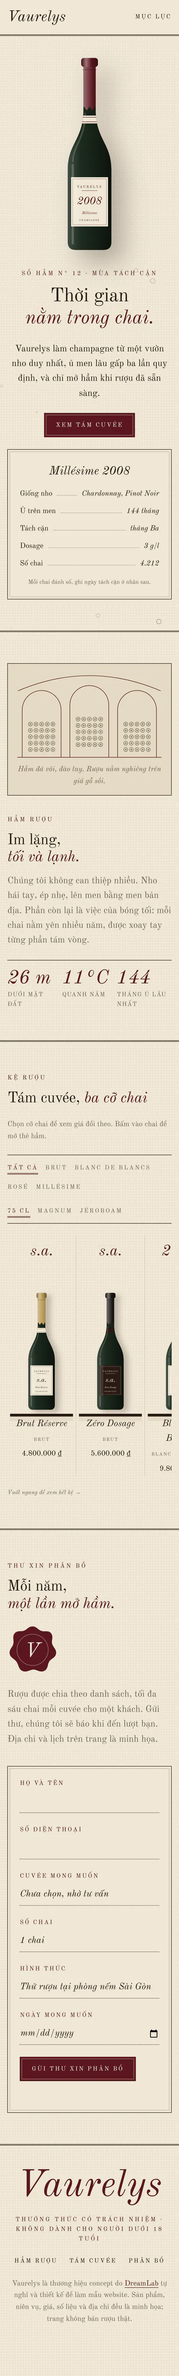
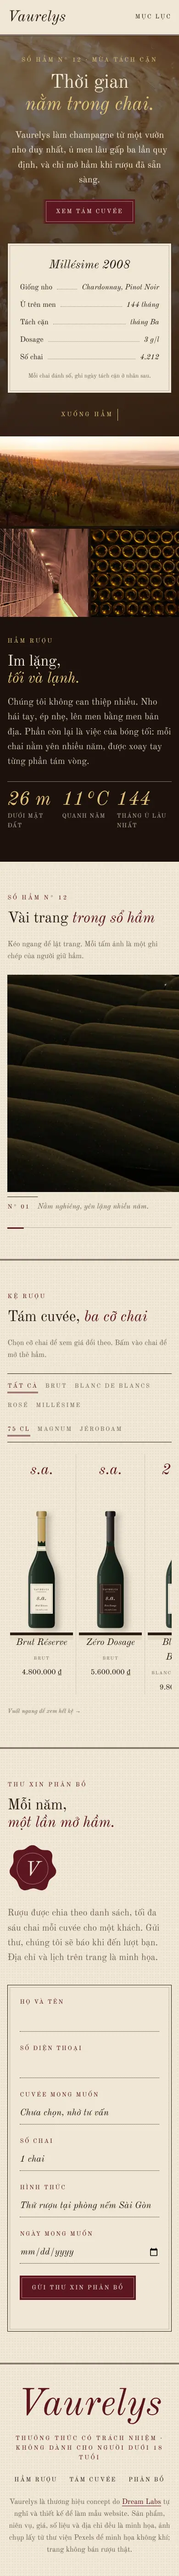
Demo Vaurelys: ảnh thật, hero bọt tăm, cảnh ghim xuống hầm, lookbook sổ hầm
Claude-Session: https://claude.ai/code/session_012QLWn7rvRysGvRwdv6upwG

diff --git a/demos/lux-vaurelys.html b/demos/lux-vaurelys.html
@@ -72,36 +72,80 @@ h1,h2{line-height:1.14;letter-spacing:-.01em}h2{font-size:clamp(33px,5vw,68px)}h
 .mn a{font-style:italic;font-size:42px;min-height:68px;display:flex;align-items:center}
 @media(max-width:900px){.hd .w{grid-template-columns:1fr auto}.hd .sc2{display:none}.hd nav{display:none}.mb{display:inline-flex}}
 /* hero */
-.hero{position:relative;overflow:hidden;padding:42px 0 68px}
+.hero{position:relative;overflow:hidden;background:#1c110c;color:var(--bg);padding:68px 0 26px;display:grid;align-items:end;min-height:calc(100svh - 81px)}
+.hp{position:absolute;inset:-4%;will-change:transform}
+.hp img{width:100%;height:100%;object-fit:cover;object-position:62% 50%;animation:kb 26s var(--ease) both}
+@keyframes kb{from{transform:scale(1.14)}}
+.hv{position:absolute;inset:0;background:linear-gradient(90deg,rgba(24,12,9,.9),rgba(34,15,12,.62) 46%,rgba(91,22,32,.2)),linear-gradient(0deg,rgba(24,12,9,.7),transparent 46%)}
 .hero canvas{position:absolute;inset:0;width:100%;height:100%;pointer-events:none}
-.hg{position:relative;display:grid;gap:26px;align-items:center}
-@media(min-width:900px){.hero{min-height:calc(100svh - 81px);display:grid;align-items:center}.hg{grid-template-columns:1fr auto 1fr;gap:42px}}
-.hero h1{font-size:clamp(42px,6.2vw,96px);margin:16px 0 26px;animation:up 1.6s .1s var(--ease) both}
-.hero .t{max-width:22em;margin-bottom:26px;animation:up 1.6s .3s var(--ease) both}
-.hero .bt{animation:up 1.6s .5s var(--ease) both}
-@keyframes up{from{opacity:0;transform:translateY(26px)}to{opacity:1;transform:none}}
-.hbt{height:min(74vh,640px);justify-self:center;animation:bi 2.2s var(--ease) both;filter:drop-shadow(26px 26px 26px rgba(42,26,20,.3))}
-@keyframes bi{from{opacity:0;transform:translateY(42px)}to{opacity:1;transform:none}}
-.hbt>div,.hbt svg{height:100%;width:auto}
-.card{border:1px solid var(--ink);padding:26px;max-width:380px;width:100%;justify-self:end;background:var(--bg);position:relative;animation:up 1.6s .7s var(--ease) both}
+.hg{position:relative;display:grid;gap:42px;align-items:end}
+@media(min-width:900px){.hg{grid-template-columns:1fr auto;gap:68px}}
+.hero .sc2{color:#e2c27a}.hero h1 em{color:#e2c27a}
+.hero h1{font-size:clamp(42px,7vw,110px);margin:16px 0 26px}
+.hero .t{max-width:22em;margin-bottom:26px;animation:up 1.6s .5s var(--ease) both}
+.hero .bt{animation:up 1.6s .7s var(--ease) both}
+@keyframes up{from{opacity:0;transform:translateY(26px)}}
+.card{border:1px solid var(--ink);color:var(--ink);padding:26px;max-width:380px;width:100%;background:var(--bg);position:relative;animation:up 1.6s .9s var(--ease) both}
 .card::before{content:"";position:absolute;inset:4px;border:1px solid var(--line);pointer-events:none}
 .card h3{font-style:italic;font-size:26px;margin-bottom:10px}.card .ld{font-size:16px}
 .card p{font-size:13px;color:var(--mut);margin-top:10px}
-@media(max-width:899px){.hbt{height:52vh;min-height:340px;order:-1}.card{justify-self:center}.hero{text-align:center}.hero .t{margin-inline:auto}}
-/* hầm */
-.cl{display:grid;gap:42px;align-items:center}
-@media(min-width:900px){.cl{grid-template-columns:61.8fr 38.2fr;gap:68px}}
-.arc{border:1px solid var(--ink);padding:16px;background:var(--bg2)}
+.cue{position:relative;justify-self:center;margin-top:26px;min-height:42px;display:inline-flex;align-items:center;gap:10px;font-size:13px;letter-spacing:.26em;text-transform:uppercase;color:#e2c27a}
+.cue::after{content:"";width:1px;height:26px;background:currentColor;transform-origin:50% 0;animation:cu 2.6s var(--ease) infinite}
+@keyframes cu{0%{transform:scaleY(0)}60%{transform:scaleY(1)}100%{transform:scaleY(1);opacity:0}}
+@media(max-width:899px){.hv{background:linear-gradient(0deg,rgba(24,12,9,.84),rgba(34,15,12,.58))}.card{justify-self:center}.hero{text-align:center;padding-top:42px}.hero .t{margin-inline:auto}}
+/* xuống hầm */
+.dn{background:#1c110c;color:var(--bg)}
+.dn-s{position:relative;padding:0 0 68px}
+.dn-i{display:grid;grid-template-columns:1fr 1fr;gap:6px}
+.dl{position:relative;overflow:hidden;aspect-ratio:1}.dl:first-child{grid-column:1/-1;aspect-ratio:2}
+.dl img{width:100%;height:100%;object-fit:cover}
+@media(min-width:900px){.dn-i{grid-template-columns:2fr 1fr 1fr}.dl,.dl:first-child{grid-column:auto;aspect-ratio:auto;height:60vh}}
+.dn-v,.dn-g{display:none}
+.dn-t{position:relative;padding-top:42px}
+.dn .sc2,.dn h2 em{color:#e2c27a}
+.dn p.t{color:rgba(239,231,214,.82);margin:16px 0 26px;max-width:30em}
+.fg3{display:grid;grid-template-columns:repeat(3,1fr);border-top:1px solid rgba(239,231,214,.5);max-width:640px}
+.fg3 div{padding:16px 10px 0 0;font-size:13px;letter-spacing:.1em;text-transform:uppercase;color:rgba(239,231,214,.7)}
+.fg3 b{display:block;font:italic 400 42px/1.14 var(--fd);color:#e2c27a;letter-spacing:0;text-transform:none;font-variant-numeric:tabular-nums}
+.mo .dn{height:300svh}
+.mo .dn-s{position:sticky;top:0;height:100svh;overflow:hidden;padding:0;display:grid;align-items:end}
+.mo .dn-i{position:absolute;inset:0;display:block}
+.mo .dl,.mo .dl:first-child{position:absolute;inset:0;aspect-ratio:auto;height:auto;will-change:clip-path}
+.mo .dl+.dl{clip-path:inset(100% 0 0 0)}
+.mo .dl img{position:absolute;left:0;top:-7%;height:114%;will-change:transform}
+.mo .dn-v{display:block;position:absolute;inset:0;background:#140b08;opacity:.2}
+.mo .dn-s::after{content:"";position:absolute;inset:0;background:linear-gradient(0deg,rgba(20,11,8,.92),rgba(20,11,8,.5) 42%,transparent 70%);pointer-events:none}
+.mo .dn-t{z-index:2;padding:0 max(16px,4.2vw) 84px}@media(max-width:700px){.mo .dn-t{padding-bottom:118px}}
+@media(min-width:900px){.mo .dn-g{display:block;position:absolute;z-index:2;right:max(26px,5vw);top:24%;height:52%;width:1px;background:rgba(239,231,214,.3)}
+.dn-g b{position:absolute;inset:0;background:#e2c27a;transform-origin:50% 0;transform:scaleY(0)}
+.dn-g i{position:absolute;right:-4px;top:-4px;width:9px;height:9px;border-radius:50%;background:#e2c27a;font:italic 20px/1 var(--fd);color:var(--bg)}
+.dn-g span{position:absolute;right:26px;top:-6px;white-space:nowrap}
+.dn-g::before,.dn-g::after{content:"Mặt đất";position:absolute;right:-4px;bottom:100%;margin-bottom:16px;font-size:10px;letter-spacing:.2em;text-transform:uppercase;white-space:nowrap;color:rgba(239,231,214,.7)}
+.dn-g::after{content:"Đáy hầm";bottom:auto;top:100%;margin:16px 0 0}}
+/* sổ hầm */
+.lk{display:flex;gap:26px;align-items:flex-start;overflow-x:auto;padding:0 max(16px,4.2vw) 6px;scrollbar-width:none;--h:min(56vh,520px)}
+.lk::-webkit-scrollbar{display:none}
+.lk.dg{cursor:grabbing;user-select:none}
+.lc{flex:none}
+.lw{position:relative;overflow:hidden;height:var(--h);aspect-ratio:3/2;background:var(--bg2)}
+.lc.p .lw{aspect-ratio:4/5}
+.lw img{width:114%;max-width:none;margin-left:-7%;height:100%;object-fit:cover;pointer-events:none;will-change:transform}
+.lw::after{content:"";position:absolute;inset:0;background:rgba(91,22,32,.3);mix-blend-mode:multiply;transition:opacity 1.1s var(--ease)}
+.lc:hover .lw::after{opacity:0}
+.lc figcaption{display:flex;gap:16px;align-items:baseline;font-style:italic;font-size:16px;color:var(--mut);padding-top:10px;margin-top:10px;position:relative;max-width:26em}
+.lc figcaption::before{content:"";position:absolute;left:0;right:0;top:0;border-top:1px solid var(--ink);transform:scaleX(.16);transform-origin:0 50%;transition:transform 1.1s var(--ease)}
+.lc:hover figcaption::before{transform:none}
+.lc figcaption b{font:400 13px var(--fb);letter-spacing:.2em;color:var(--acc);white-space:nowrap}
+.lp{height:1px;background:var(--line);margin:26px max(16px,4.2vw) 0}.lp i{display:block;height:3px;margin-top:-1px;background:var(--acc);transform-origin:0 50%;transform:scaleX(.1)}
+.arc{border:1px solid var(--ink);padding:16px;background:var(--bg2);width:min(78vw,calc(var(--h)*1.3));align-self:center}
 .arc svg{width:100%;height:auto}
 .arc path{fill:none;stroke:var(--acc);stroke-width:1.4}.arc circle{fill:none;stroke:var(--ink);stroke-width:.8}
 .js .arc path{stroke-dasharray:1;stroke-dashoffset:1;transition:stroke-dashoffset 2.6s var(--ease);transition-delay:calc(var(--i,0)*262ms)}
 .js .arc g{opacity:0;transition:opacity 1.6s var(--ease) 1s}
 .js .arc.in path{stroke-dashoffset:0}.js .arc.in g{opacity:1}
 .arc figcaption{font-style:italic;font-size:16px;text-align:center;margin-top:10px;color:var(--mut)}
-.cl p.t{color:var(--mut);margin:16px 0 26px}
-.fg3{display:grid;grid-template-columns:repeat(3,1fr);border-top:1px solid var(--ink)}
-.fg3 div{padding:16px 10px 0 0;font-size:13px;letter-spacing:.1em;text-transform:uppercase;color:var(--mut)}
-.fg3 b{display:block;font:italic 400 42px/1.14 var(--fd);color:var(--acc);letter-spacing:0;text-transform:none}
+@media (hover:none),(pointer:coarse){.lk{scroll-snap-type:x mandatory;--h:auto}.lc{scroll-snap-align:center;width:78vw}.lw,.lc.p .lw{width:100%;height:auto;aspect-ratio:4/5}.lw::after{opacity:.5}}
+.js [data-r=rule]{opacity:1;transform:scaleX(0);transform-origin:0 50%}
 /* kệ */
 .kh{display:flex;justify-content:space-between;align-items:end;gap:26px;flex-wrap:wrap;margin-bottom:26px}
 .tb{display:flex;justify-content:space-between;gap:10px 26px;flex-wrap:wrap;border-block:1px solid var(--ink);padding:6px 0}
@@ -164,47 +208,65 @@ footer{padding:42px 0 110px;text-align:center;overflow:hidden}
 <header class="hd"><div class="w">
  <p class="sc2">Champagne · Nhà độc lập</p>
  <a class="lg" href="#top" aria-label="Vaurelys — về đầu trang">Vaurelys</a>
- <nav aria-label="Chính"><a href="#ham">Hầm rượu</a><a href="#ke">Tám cuvée</a><a href="#phan-bo">Phân bổ</a></nav>
+ <nav aria-label="Chính"><a href="#ham">Hầm rượu</a><a href="#so">Sổ hầm</a><a href="#ke">Tám cuvée</a><a href="#phan-bo">Phân bổ</a></nav>
  <button class="mb" data-nav aria-expanded="false" aria-controls="mn">Mục lục</button>
 </div></header>
-<div class="mn" id="mn"><a href="#ham">Hầm rượu</a><a href="#ke">Tám cuvée</a><a href="#phan-bo">Xin phân bổ</a></div>
+<div class="mn" id="mn"><a href="#ham">Hầm rượu</a><a href="#so">Sổ hầm</a><a href="#ke">Tám cuvée</a><a href="#phan-bo">Xin phân bổ</a></div>
 
 <main>
 <section class="hero" id="top">
+ <div class="hp"><img src="../img/photo/champagne-38962881.webp" width="2000" height="1860" alt="Cận cảnh ly champagne vàng óng, bọt tăm li ti bám thành ly" fetchpriority="high" decoding="async"></div>
+ <div class="hv"></div>
  <canvas id="bub" aria-hidden="true"></canvas>
  <div class="w hg">
   <div><p class="sc2">Sổ hầm N° 12 · Mùa tách cặn</p>
-   <h1>Thời gian<br><em>nằm trong chai.</em></h1>
+   <h1 data-r="lines"><span class="ln"><span>Thời gian</span></span><span class="ln" style="--j:2"><span><em>nằm trong chai.</em></span></span></h1>
    <p class="t">Vaurelys làm champagne từ một vườn nho duy nhất, ủ men lâu gấp ba lần quy định, và chỉ mở hầm khi rượu đã sẵn sàng.</p>
    <a class="bt" href="#ke">Xem tám cuvée</a></div>
-  <div class="hbt"><div id="hbt" data-px=".04"></div></div>
   <div class="card"><h3>Millésime 2008</h3>
-   <dl class="ld"><div><dt>Giống nho</dt><dd>Chardonnay, Pinot Noir</dd></div><div><dt>Ủ trên men</dt><dd>144 tháng</dd></div><div><dt>Tách cặn</dt><dd>tháng Ba</dd></div><div><dt>Dosage</dt><dd>3 g/l</dd></div><div><dt>Số chai</dt><dd>4.212</dd></div></dl>
+   <dl class="ld"><div><dt>Giống nho</dt><dd>Chardonnay, Pinot Noir</dd></div><div><dt>Ủ trên men</dt><dd><span data-ct="144">144</span> tháng</dd></div><div><dt>Tách cặn</dt><dd>tháng Ba</dd></div><div><dt>Dosage</dt><dd>3 g/l</dd></div><div><dt>Số chai</dt><dd data-ct="4212">4.212</dd></div></dl>
    <p>Mỗi chai đánh số, ghi ngày tách cặn ở nhãn sau.</p></div>
  </div>
+ <a class="cue" href="#ham">Xuống hầm</a>
 </section>
-<hr class="rl">
 
-<section class="sec" id="ham"><div class="w cl">
- <figure class="arc" data-r="fade">
-  <svg viewBox="0 0 420 250" role="img" aria-label="Hình khắc ba vòm hầm rượu đá vôi">
-   <path pathLength="1" d="M6 244H414"/><path pathLength="1" d="M20 244V110a55 55 0 0 1 110 0v134" style="--i:1"/><path pathLength="1" d="M155 244V96a55 55 0 0 1 110 0v148" style="--i:2"/><path pathLength="1" d="M290 244V110a55 55 0 0 1 110 0v134" style="--i:3"/>
-   <path pathLength="1" d="M8 56Q210-30 412 56" style="--i:4"/>
-   <g id="rk"></g>
-  </svg><figcaption>Hầm đá vôi, đào tay. Rượu nằm nghiêng trên giá gỗ sồi.</figcaption>
- </figure>
- <div><p class="sc2" data-r>Hầm rượu</p><h2 data-r style="margin-top:16px">Im lặng,<br><em>tối và lạnh.</em></h2>
+<section class="dn" id="ham"><div class="dn-s">
+ <div class="dn-i">
+  <div class="dl"><img src="../img/photo/champagne-18248851.webp" width="1800" height="877" alt="Vườn nho trên sườn đồi trong nắng sớm màu mật" loading="lazy" decoding="async"></div>
+  <div class="dl"><img src="../img/photo/champagne-34643419.webp" width="1600" height="1532" alt="Đường hầm rượu dài, vòm đá, lồng chai xếp kín một bên vách" loading="lazy" decoding="async"></div>
+  <div class="dl"><img src="../img/photo/champagne-35740712.webp" width="1600" height="960" alt="Đáy chai champagne xếp thành hàng, ánh hổ phách trong bóng tối" loading="lazy" decoding="async"></div>
+ </div>
+ <div class="dn-v"></div>
+ <div class="dn-g" aria-hidden="true"><b></b><i><span>0 m</span></i></div>
+ <div class="w dn-t"><p class="sc2" data-r>Hầm rượu</p><h2 data-r style="margin-top:16px">Im lặng,<br><em>tối và lạnh.</em></h2>
   <p class="t" data-r>Chúng tôi không can thiệp nhiều. Nho hái tay, ép nhẹ, lên men bằng men bản địa. Phần còn lại là việc của bóng tối: mỗi chai nằm yên nhiều năm, được xoay tay từng phần tám vòng.</p>
-  <div class="fg3" data-r><div><b>26 m</b>dưới mặt đất</div><div><b>11°C</b>quanh năm</div><div><b>144</b>tháng ủ lâu nhất</div></div></div>
+  <div class="fg3" data-r><div><b><span id="dm">26</span> m</b>dưới mặt đất</div><div><b>11°C</b>quanh năm</div><div><b id="dt">144</b>tháng ủ lâu nhất</div></div></div>
 </div></section>
-<hr class="rl">
+
+<section class="sec" id="so"><div class="w kh"><div><p class="sc2" data-r>Sổ hầm N° 12</p><h2 data-r style="margin-top:16px">Vài trang <em>trong sổ hầm</em></h2></div><p data-r style="max-width:22em;font-size:16px;color:var(--mut)">Kéo ngang để lật trang. Mỗi tấm ảnh là một ghi chép của người giữ hầm.</p></div>
+ <div class="lk" id="lk" tabindex="0" data-c="Kéo" aria-label="Sổ hầm bằng ảnh, kéo ngang để xem">
+  <figure class="lc" data-r><div class="lw"><img src="../img/photo/champagne-5651790.webp" width="1300" height="867" alt="Những chai rượu nằm nghiêng xếp lớp trong hầm tối" loading="lazy" decoding="async"></div><figcaption><b>N° 01</b>Nằm nghiêng, yên lặng nhiều năm.</figcaption></figure>
+  <figure class="lc p" data-r style="--i:1"><div class="lw"><img src="../img/photo/champagne-14420961.webp" width="780" height="951" alt="Rượu sủi tăm rót từ cổ chai bọc giấy bạc vào ly trên nền tối" loading="lazy" decoding="async"></div><figcaption><b>N° 02</b>Rót ở 9–11°C, bọt mịn.</figcaption></figure>
+  <figure class="lc" data-r style="--i:2"><div class="lw"><img src="../img/photo/champagne-5272994.webp" width="1300" height="867" alt="Chai rượu cũ phủ bụi chúc cổ trên giá gỗ sát vách đá vôi" loading="lazy" decoding="async"></div><figcaption><b>N° 03</b>Ngăn riêng của những niên vụ cũ.</figcaption></figure>
+  <figure class="lc p" data-r><div class="lw"><img src="../img/photo/champagne-15007573.webp" width="780" height="1014" alt="Ly champagne đầy trước những đốm đèn vàng nhòe" loading="lazy" decoding="async"></div><figcaption><b>N° 04</b>Chai để mở mỗi khi có khách.</figcaption></figure>
+  <figure class="lc arc" data-r="fade">
+   <svg viewBox="0 0 420 250" role="img" aria-label="Hình khắc ba vòm hầm rượu đá vôi">
+    <path pathLength="1" d="M6 244H414"/><path pathLength="1" d="M20 244V110a55 55 0 0 1 110 0v134" style="--i:1"/><path pathLength="1" d="M155 244V96a55 55 0 0 1 110 0v148" style="--i:2"/><path pathLength="1" d="M290 244V110a55 55 0 0 1 110 0v134" style="--i:3"/>
+    <path pathLength="1" d="M8 56Q210-30 412 56" style="--i:4"/>
+    <g id="rk"></g>
+   </svg><figcaption>Hầm đá vôi, đào tay. Rượu nằm nghiêng trên giá gỗ sồi.</figcaption>
+  </figure>
+ </div>
+ <div class="lp" aria-hidden="true"><i></i></div>
+</section>
+<hr class="rl" data-r="rule">
 
 <section class="sec" id="ke"><div class="w">
  <div class="kh"><div><p class="sc2" data-r>Kệ rượu</p><h2 data-r style="margin-top:16px">Tám cuvée, <em>ba cỡ chai</em></h2></div><p data-r style="max-width:22em;font-size:16px;color:var(--mut)">Chọn cỡ chai để xem giá đổi theo. Bấm vào chai để mở thẻ hầm.</p></div>
  <div class="tb" data-r><div class="fl" id="fl" role="group" aria-label="Lọc theo dòng rượu"></div><div class="fo" id="fo" role="group" aria-label="Cỡ chai"></div></div>
  <div class="shf"><div class="gr" id="gr" data-vt tabindex="0" aria-label="Kệ tám cuvée, vuốt ngang để xem"></div><p class="hint">Vuốt ngang để xem hết kệ →</p></div>
 </div></section>
-<hr class="rl">
+<hr class="rl" data-r="rule">
 
 <section class="sec" id="phan-bo"><div class="w bk">
  <div><p class="sc2" data-r>Thư xin phân bổ</p><h2 data-r style="margin-top:16px">Mỗi năm,<br><em>một lần mở hầm.</em></h2>
@@ -221,13 +283,13 @@ footer{padding:42px 0 110px;text-align:center;overflow:hidden}
  </form>
 </div></section>
 </main>
-<hr class="rl">
+<hr class="rl" data-r="rule">
 
 <footer><div class="w">
  <div class="fw" aria-hidden="true" data-r>Vaurelys</div>
  <p class="sc2">Thưởng thức có trách nhiệm · Không dành cho người dưới 18 tuổi</p>
  <nav class="fn" aria-label="Chân trang"><a href="#ham">Hầm rượu</a><a href="#ke">Tám cuvée</a><a href="#phan-bo">Phân bổ</a></nav>
- <p class="fc">Vaurelys là thương hiệu concept do <a href="../index.html" target="_top">Dream Labs</a> tự nghĩ và thiết kế để làm mẫu website. Sản phẩm, niên vụ, giá, số liệu và địa chỉ đều là minh họa; trang không bán rượu thật.</p>
+ <p class="fc">Vaurelys là thương hiệu concept do <a href="../index.html" target="_top">Dream Labs</a> tự nghĩ và thiết kế để làm mẫu website. Sản phẩm, niên vụ, giá, số liệu và địa chỉ đều là minh họa, ảnh chụp lấy từ thư viện Pexels để minh họa không khí; trang không bán rượu thật.</p>
 </div></footer>
 
 <div class="qv" id="qv" aria-hidden="true"><div class="qv-bg" data-x></div><div class="qv-p" role="dialog" aria-modal="true" aria-label="Thẻ hầm của cuvée"><button class="qv-x" data-x aria-label="Đóng">×</button><div id="qvc"></div></div></div>
@@ -253,9 +315,6 @@ D.addEventListener('click',e=>{const a=e.target.closest('a[href^="#"]');if(!a)re
 /* đầu trang + menu điện thoại */
 const onS=()=>{H.classList.toggle('sc',scrollY>42)};addEventListener('scroll',onS,{passive:true});onS();
 $$('[data-nav]').forEach(b=>b.addEventListener('click',()=>{const o=H.classList.toggle('no');b.setAttribute('aria-expanded',o)}));
-/* parallax nhẹ */
-const PX=$$('[data-px]');
-if(PX.length&&!RM){let tk=0;const up=()=>{tk=0;const vh=innerHeight;PX.forEach(el=>{const r=el.parentElement.getBoundingClientRect();if(r.bottom<-200||r.top>vh+200)return;el.style.transform='translate3d(0,'+((r.top+r.height/2-vh/2)*-(+el.dataset.px)).toFixed(1)+'px,0)'})};addEventListener('scroll',()=>{tk||(tk=requestAnimationFrame(up))},{passive:true});up()}
 /* con trỏ */
 const cur=$('.cur');
 if(cur&&FINE){let x=-99,y=-99,cx=x,cy=y,on=0;const lab=$('.cur i');
@@ -294,13 +353,42 @@ const btl=c=>{const u='c'+(uid++),g=GL[c.g],f=FO[c.f],gp='M49 12H71V98C71 150 99
  <g font-family="Old Standard TT,serif" text-anchor="middle" fill="${c.l[1]}"><text x="60" y="237" font-size="6" letter-spacing="1.6">VAURELYS</text><path d="M46 242h28" stroke="${c.l[1]}" stroke-width=".5"/><text x="60" y="266" font-size="${c.y.length>4?16:19}" font-style="italic">${c.y}</text><text x="60" y="284" font-size="${c.n.length>13?5.6:6.6}" font-style="italic">${c.n}</text><text x="60" y="296" font-size="4.2" letter-spacing="1">CHAMPAGNE</text></g>
  <rect x="27" y="218" width="12" height="88" fill="#fff" opacity=".12"/></svg>`};
 const pr=(c,k)=>c.p?vnd(Math.round(c.p*FM[k][1]/1e5)*1e5):vnd(0);
-/* hero */
-$('#hbt').innerHTML=btl(C[6]);
-const cv=$('#bub'),hero=$('.hero');let cx,bs=[],run=0,hw,hh;
-const fit=()=>{const d=Math.min(devicePixelRatio||1,1.5);hw=hero.clientWidth;hh=hero.clientHeight;cv.width=hw*d;cv.height=hh*d;cx=cv.getContext('2d');cx.setTransform(d,0,0,d,0,0);bs=Array.from({length:Math.round(hw/30)},(_,i)=>({x:Math.random()*hw,y:Math.random()*hh,r:1.5+Math.random()*5,v:.2+Math.random()*.5,p:Math.random()*6.28}))};
-const draw=t=>{cx.clearRect(0,0,hw,hh);cx.lineWidth=1;bs.forEach(b=>{if(run){b.y-=b.v;if(b.y<-10){b.y=hh+10;b.x=Math.random()*hw}}const x=b.x+Math.sin(t*.001+b.p)*6;cx.globalAlpha=.16+.3*(b.y/hh);cx.strokeStyle=b.r>4?'#5b1620':'#a8843c';cx.beginPath();cx.arc(x,b.y,b.r,0,6.28);cx.stroke()});if(run)requestAnimationFrame(draw)};
-fit();draw(0);addEventListener('resize',()=>{fit();run||draw(0)});
-if('IntersectionObserver' in window&&!RM)new IntersectionObserver(e=>{const v=e[0].isIntersecting;if(v&&!run){run=1;requestAnimationFrame(draw)}else if(!v)run=0}).observe(hero);
+/* hero: bọt tăm */
+const cl=(v,a,b)=>Math.max(0,Math.min(1,(v-a)/(b-a))),ez=t=>t*t*(3-2*t);
+const cv=$('#bub'),hero=$('.hero'),hp=$('.hp');
+if(!RM&&cv.getContext){let cx,cs=[],run=0,hw,hh,mx=0,my=0,px=0,py=0,lt=0;
+ const fit=()=>{const d=Math.min(devicePixelRatio||1,1.5);hw=hero.clientWidth;hh=hero.clientHeight;cv.width=hw*d;cv.height=hh*d;cx=cv.getContext('2d');cx.setTransform(d,0,0,d,0,0);
+  const N=hw<700?4:9;cs=Array.from({length:N},(_,i)=>({x:hw*(.08+.86*(i+Math.random()*.7)/N),y:hh*(.55+Math.random()*.45),n:5+(Math.random()*5|0),s:.05+Math.random()*.05,o:Math.random(),p:Math.random()*6.28}))};
+ const draw=t=>{if(!run)return;const dt=Math.min(50,t-lt)/1e3;lt=t;px+=(mx-px)*.05;py+=(my-py)*.05;
+  hp.style.transform='translate3d('+(px*-16).toFixed(1)+'px,'+(py*-10+scrollY*.14).toFixed(1)+'px,0)';cv.style.transform='translate3d('+(px*12).toFixed(1)+'px,'+(py*8).toFixed(1)+'px,0)';
+  cx.clearRect(0,0,hw,hh);cs.forEach(c=>{c.o=(c.o+dt*c.s)%1;for(let i=0;i<c.n;i++){const k=(c.o+i/c.n)%1,y=c.y-(c.y+20)*Math.pow(k,1.7),r=.6+2.2*k,x=c.x+Math.sin(k*11+c.p+i)*7*k;
+   cx.globalAlpha=Math.min(1,k*9,(1-k)*5)*.62;cx.fillStyle='#fff3d2';cx.beginPath();cx.arc(x,y,r,0,6.28);cx.fill();cx.globalAlpha*=.8;cx.fillStyle='#fff';cx.beginPath();cx.arc(x-r*.3,y-r*.3,r*.34,0,6.28);cx.fill()}});
+  requestAnimationFrame(draw)};
+ let vis=0;const sw=()=>{const on=vis&&!D.hidden;if(on&&!run){run=1;lt=performance.now();requestAnimationFrame(draw)}else if(!on)run=0};
+ fit();addEventListener('resize',fit);D.addEventListener('visibilitychange',sw);
+ if(FINE)hero.addEventListener('mousemove',e=>{mx=e.clientX/innerWidth-.5;my=e.clientY/innerHeight-.5},{passive:true});
+ if('IntersectionObserver' in window)new IntersectionObserver(e=>{vis=e[0].isIntersecting;sw()}).observe(hero)}
+/* số đếm */
+if(io){const co=new IntersectionObserver(es=>es.forEach(e=>{if(!e.isIntersecting)return;co.unobserve(e.target);const el=e.target,n=+el.dataset.ct,t0=performance.now();(function f(t){const k=cl(t-t0,0,2200);el.textContent=Math.round(n*(1-Math.pow(1-k,4))).toString().replace(/\B(?=(\d{3})+$)/g,'.');k<1&&requestAnimationFrame(f)})(t0)}),{threshold:.6});$$('[data-ct]').forEach(e=>co.observe(e))}
+/* xuống hầm: cảnh ghim */
+const dn=$('.dn');
+if(dn&&!RM&&CSS.supports('position','sticky')){H.classList.add('mo');const L=$$('.dl',dn),im=L.map(l=>$('img',l)),dv=$('.dn-v'),dm=$('#dm'),dt=$('#dt'),g=$('.dn-g'),gb=$('b',g),gi=$('i',g),gs=$('span',g);let tk=0,lp=-1;
+ const up=()=>{tk=0;const r=dn.getBoundingClientRect(),vh=innerHeight;if(r.bottom<-50||r.top>vh+50)return;const p=cl(-r.top,0,r.height-vh);if(p===lp)return;lp=p;
+  const a=ez(cl(p,.08,.44)),b=ez(cl(p,.52,.88)),d=(a+b)/2,m=Math.round(26*d);
+  L[1].style.clipPath='inset('+(100-a*100).toFixed(2)+'% 0 0 0)';L[2].style.clipPath='inset('+(100-b*100).toFixed(2)+'% 0 0 0)';
+  im[0].style.transform='translate3d(0,'+(-a*5).toFixed(2)+'%,0) scale('+(1.02+p*.06).toFixed(4)+')';im[1].style.transform='translate3d(0,'+((1-a)*5-b*5).toFixed(2)+'%,0)';im[2].style.transform='translate3d(0,'+((1-b)*5).toFixed(2)+'%,0) scale('+(1.08-b*.08).toFixed(4)+')';
+  dv.style.opacity=(.16+.34*d).toFixed(3);dm.textContent=m;dt.textContent=Math.round(144*d);gs.textContent=m+' m';
+  gb.style.transform='scaleY('+d.toFixed(4)+')';gi.style.transform='translate3d(0,'+(d*g.clientHeight).toFixed(1)+'px,0)'};
+ addEventListener('scroll',()=>{tk||(tk=requestAnimationFrame(up))},{passive:true});addEventListener('resize',()=>{lp=-1;up()});up()}
+/* sổ hầm: kéo có quán tính */
+const lk=$('#lk');
+if(lk){const pi=$('.lp i'),ims=$$('.lw img',lk);let tk=0;
+ const lu=()=>{tk=0;const m=lk.scrollWidth-lk.clientWidth,vw=lk.clientWidth;pi.style.transform='scaleX('+(m>0?.1+.9*lk.scrollLeft/m:1).toFixed(4)+')';
+  RM||ims.forEach(i=>{const r=i.parentElement.getBoundingClientRect();if(r.right<0||r.left>vw)return;i.style.transform='translate3d('+((cl((r.left+r.width/2)/vw,0,1)-.5)*-7).toFixed(2)+'%,0,0)'})};
+ lk.addEventListener('scroll',()=>{tk||(tk=requestAnimationFrame(lu))},{passive:true});addEventListener('resize',lu);lu();
+ if(FINE){let on=0,sx,sl,v=0,lx,af;lk.addEventListener('pointerdown',e=>{if(e.button)return;on=1;sx=lx=e.clientX;sl=lk.scrollLeft;v=0;cancelAnimationFrame(af);lk.classList.add('dg')});
+  addEventListener('pointermove',e=>{if(!on)return;v=e.clientX-lx;lx=e.clientX;lk.scrollLeft=sl-(e.clientX-sx)});
+  addEventListener('pointerup',()=>{if(!on)return;on=0;lk.classList.remove('dg');const f=()=>{v*=.94;lk.scrollLeft-=v;if(Math.abs(v)>.4)af=requestAnimationFrame(f)};RM||f()})}}
 /* giá gỗ trong hầm */
 let rk='';[[75,0],[210,-14],[345,0]].forEach(([x,dy])=>{for(let r=0;r<5;r++)for(let c=0;c<5;c++)rk+=`<circle cx="${x-32+c*16}" cy="${150+dy+r*18}" r="5.6"/><circle cx="${x-32+c*16}" cy="${150+dy+r*18}" r="1.6"/>`});$('#rk').innerHTML=rk;
 /* kệ */
